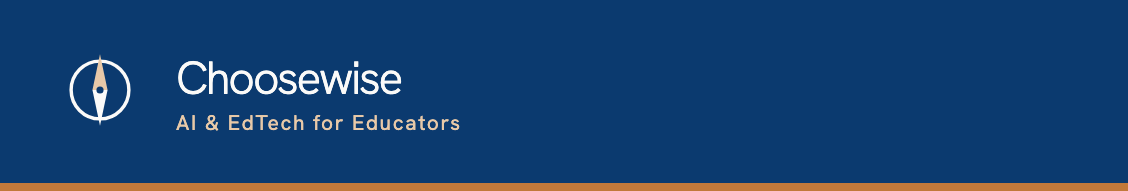
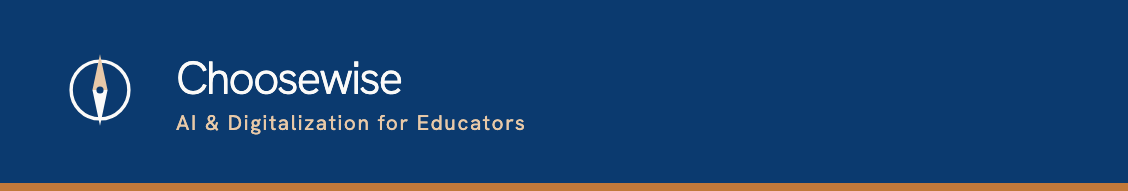
feat(brand): underrubriken blir "AI & Digitalization for Educators"
Johans beslut 2026-10-09, ersätter "AI & EdTech for Educators".

Två detaljer avgjordes med den: `digitalization` följer sajtens egen
konvention — 382 förekomster mot 18 för -isation — och D:et är
versalt så raden matchar `Educators`, eftersom gement bröt rytmen vid
42 px på omslaget.

Strängen ändras i generatorn och tillgångarna renderas om. Fälla 7:
en handredigering i en genererad SVG raderas tyst vid nästa körning.
Vakten test_the_generator_owns_the_subtitle läser därför generatorns
källa, inte bara de committade filerna, och förbjuder samtidigt den
gamla strängen.

Renderingen kontrollerad som bild, inte bara som text: `Digitalization`
är sju tecken längre än `EdTech` och får plats på alla tre ytorna,
även i den smala 1128×191-bannern.

Changed region(s): [[0.1862, 0.6021, 0.4654, 0.7068]]

diff --git a/scripts/tests/test_brand_mark.py b/scripts/tests/test_brand_mark.py
@@ -341,3 +341,25 @@ def test_generated_card_font_path_exists(rel):
     font_path = ROOT / match.group(1).lstrip("/")
     assert font_path.exists(), f"{rel}: font path {match.group(1)} does not exist"
 
+
+SUBTITLE = "AI &amp; Digitalization for Educators"
+OLD_SUBTITLE = "AI &amp; EdTech for Educators"
+
+
+@pytest.mark.parametrize("rel", ["skool/cover.svg", "linkedin/page-banner.svg",
+                                 "linkedin/personal-banner.svg"])
+def test_the_subtitle_is_the_decided_one(rel):
+    """Johans beslut 2026-10-09. `digitalization` följer sajtens egen
+    -ize-konvention (382 förekomster mot 18 för -isation), och versalt D
+    matchar `Educators` på samma rad — gement bröt rytmen vid 42 px."""
+    text = (ROOT / "assets/images/brand" / rel).read_text(encoding="utf-8")
+    assert SUBTITLE in text, f"{rel} saknar den beslutade underrubriken"
+    assert OLD_SUBTITLE not in text, f"{rel} bär kvar den gamla underrubriken"
+
+
+def test_the_generator_owns_the_subtitle():
+    """Fälla 7: en handredigering i en genererad SVG raderas tyst vid
+    nästa körning. Strängen måste stå i generatorn, inte bara i filerna."""
+    source = (ROOT / "scripts/build-brand-assets.py").read_text(encoding="utf-8")
+    assert SUBTITLE in source
+    assert OLD_SUBTITLE not in source

diff --git a/scripts/build-brand-assets.py b/scripts/build-brand-assets.py
@@ -221,7 +221,7 @@ def card_svg(w: int, h: int, mark_size: int, mark_x: int, mark_y: int,
 
 
 TITLE = "Choosewise"
-SUBTITLE = "AI &amp; EdTech for Educators"
+SUBTITLE = "AI &amp; Digitalization for Educators"
 
 
 def build_skool(page) -> None:
